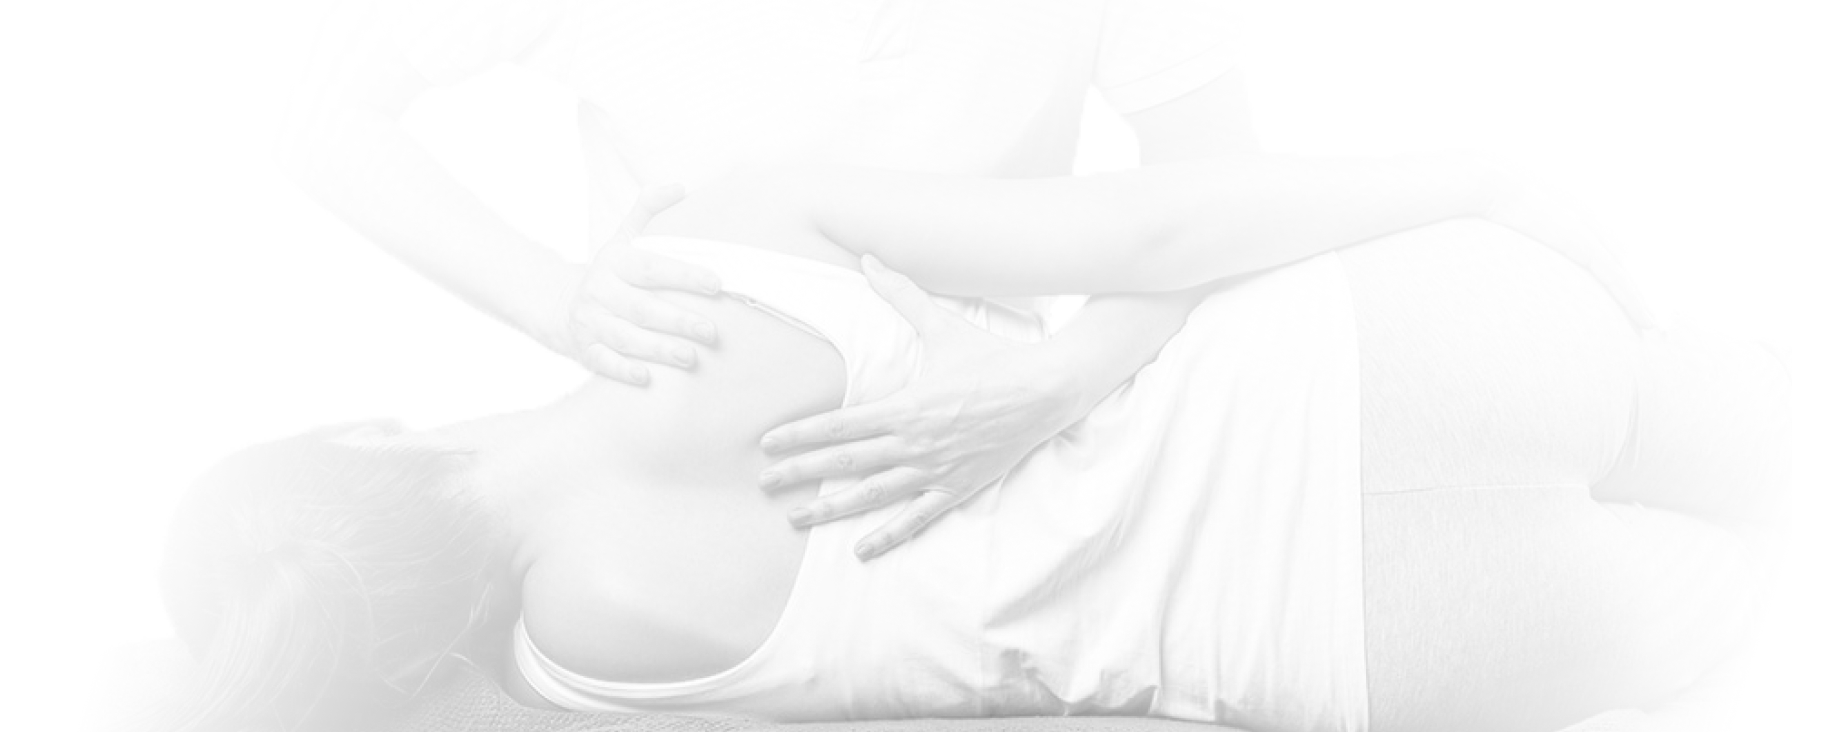
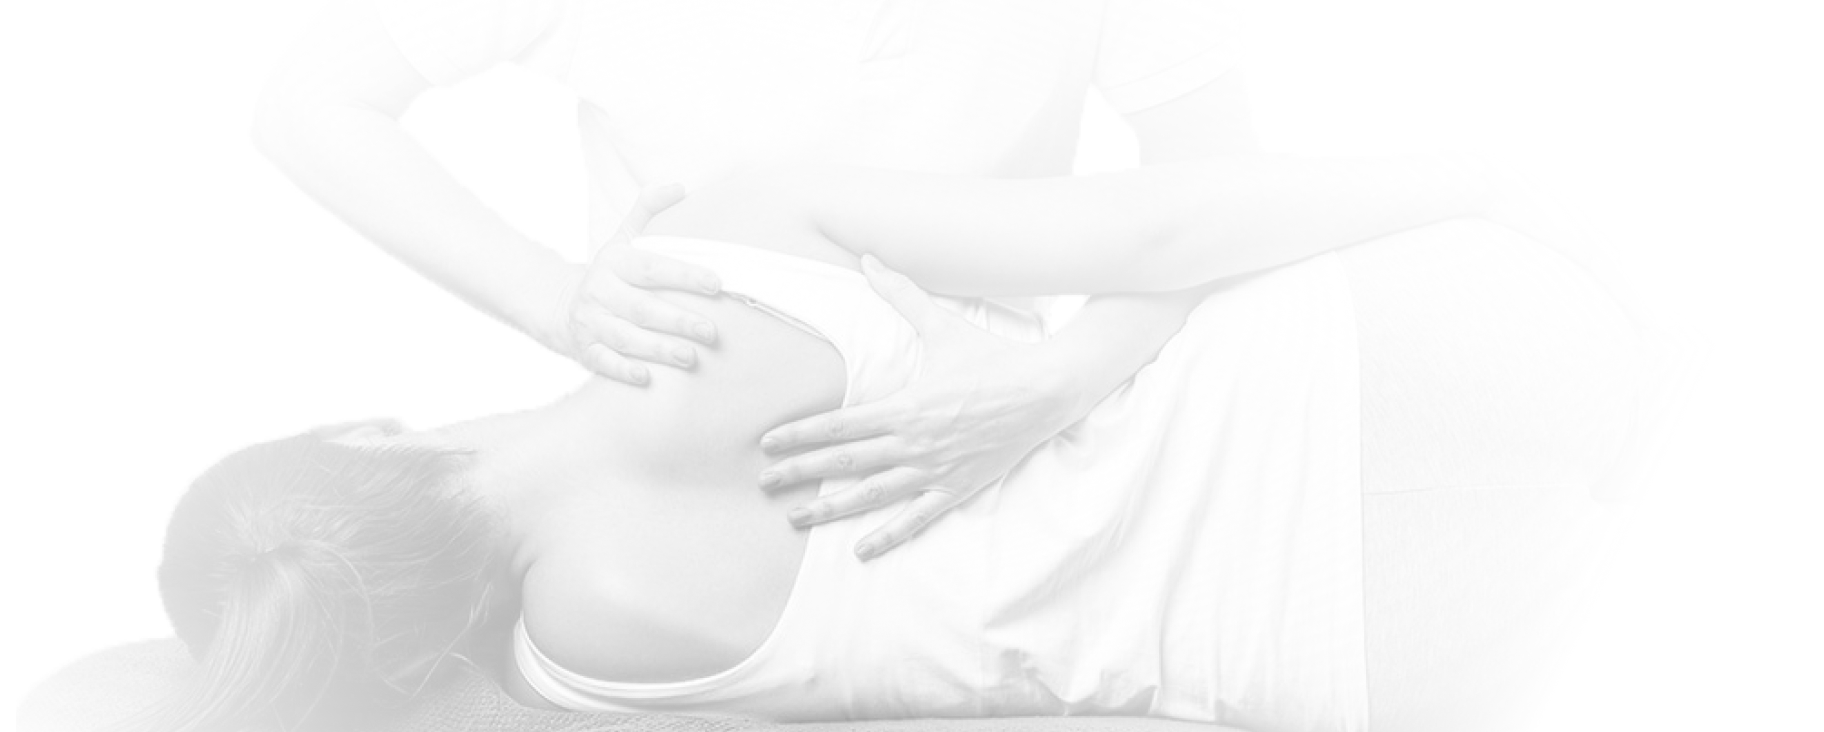
services complete

diff --git a/src/components/Services.js b/src/components/Services.js
@@ -4,6 +4,8 @@ import theme from "../theme"
 import Wrapper from "./Wrapper"
 import { Trafalger } from "../Typography"
 import Card from "./Card"
+import careIcon from "../images/careIcon.svg"
+import carIcon from "../images/carIcon.svg"
 
 const Container = styled.div`
   background: ${theme.colors.parchment};
@@ -22,38 +24,30 @@ const Grid = styled.div`
   }
 `
 
-const cardContent = [
-  {
-    id: 1,
-    iconUrl: "/static/carIcon.svg",
-    content:
-      "I provide mobile physiotherapy in cras justo odio, dapibus ac facilisis in, egestas eget quam. Morbi leo risus, porta ac consectetur ac, vestibulum at eros. Sed posuere consectetur est at lobortis. Praesent commodo cursus magna, vel scelerisque nisl consectetur et.",
-  },
-  {
-    id: 2,
-    iconUrl: "/static/care.svg",
-    content:
-      "I provide home-based physiotherapy for the elderly, delivering comprehensive treatment and education for both patients and their wider family. Cras mattis consectetur purus sit amet fermentum. Donec ullamcorper nulla non metus auctor fringilla. Curabitur blandit tempus porttitor.",
-  },
-  {
-    id: 3,
-    iconUrl: "/static/carIcon.svg",
-    content:
-      "Donec sed odio dui. Cras mattis consectetur purus sit amet fermentum. Duis mollis, est non commodo luctus, nisi erat porttitor ligula, eget lacinia odio sem nec elit.",
-  },
-]
-
 const Services = () => {
-  const cardItem = cardContent.map(data => {
-    return <Card key={data.id} data={data} />
-  })
   return (
     <Container>
       <Wrapper>
         <Trafalger textStyle="trafalger" textAlign="center" mb="56px">
           Services
         </Trafalger>
-        <Grid>{cardItem}</Grid>
+        <Grid>
+          <Card
+            iconUrl={carIcon}
+            header="Mobile Physio"
+            content="I provide mobile physiotherapy, meaning that you can undergo a treatment plan tailored to your needs from the comfort of your own home. Why not get in touch with us and save yourself the stress of travelling."
+          />
+          <Card
+            iconUrl={careIcon}
+            header="Elderly & Children Care"
+            content="I also offer physiotherapy for the elderly in residential and nursing homes along with sheltered accommodations, specialising in both individual physiotherapy and group exercise classes."
+          />
+          <Card
+            iconUrl={careIcon}
+            header="Another Service Here"
+            content="Justo odio, dapibus ac facilisis in, egestas eget quam. Morbi leo risus, porta ac consectetur ac, vestibulum at eros. Sed posuere consectetur est at lobortis. Praesent commodo cursus magna, vel scelerisque nisl consectetur et."
+          />
+        </Grid>
       </Wrapper>
     </Container>
   )

diff --git a/src/components/About.js b/src/components/About.js
@@ -1,0 +1,50 @@
+import React from "react"
+import Wrapper from "./Wrapper"
+import { Trafalger } from "../Typography"
+import aboutImage from "../images/alison-about.jpg"
+import styled from "@emotion/styled"
+import { BodyCopy } from "../Typography"
+
+const Container = styled.div`
+  display: grid;
+  grid-template-columns: 0.74fr 1fr;
+`
+
+const Image = styled.img`
+  width: 290px;
+  height: auto;
+`
+
+const TextContainer = styled.div`
+  width: 60%;
+`
+
+const About = () => {
+  return (
+    <Wrapper>
+      <Container>
+        <Image src={aboutImage} alt="" />
+        <TextContainer>
+          <Trafalger textStyle="trafalger" mt="80px" mb="30px">
+            About me
+          </Trafalger>
+          <BodyCopy textStyle="bodyCopy">
+            Alison Stuart is a Chartered Physiotherapist with over 25 years of
+            experience. She has a wealth of experience and has previously worked
+            for the NHS both in adult and paediatric care, at Stoke Mandeville
+            hospital in their specialist spinal injuries unit as well as other
+            private practices and professional sports teams.
+          </BodyCopy>
+          <BodyCopy textStyle="bodyCopy">
+            Her most diverse experience was a time working for a professional
+            basketball team. "I worked for five years with the Chester Jets. We
+            travelled all over Europe, and I have to say it was great fun and an
+            amazing experience for me."
+          </BodyCopy>
+        </TextContainer>
+      </Container>
+    </Wrapper>
+  )
+}
+
+export default About

diff --git a/src/components/Card.js b/src/components/Card.js
@@ -1,6 +1,7 @@
 import React from "react"
 import styled from "@emotion/styled"
 import { BodyCopy } from "../Typography"
+import { color, textStyle, space, typography } from "styled-system"
 
 const Container = styled.div`
   border-radius: 4px;
@@ -12,15 +13,25 @@ const Container = styled.div`
 `
 
 const Image = styled.img`
-  margin: 16px 0 24px;
+  margin: 16px 0 16px;
 `
 
-const Card = ({ data }) => {
+const SubHeader = styled.h2`
+  ${textStyle}
+  ${space}
+  ${color}
+  ${typography}
+`
+
+const Card = ({ iconUrl, content, header }) => {
   return (
     <Container>
-      <Image src={data.iconUrl} alt="" />
+      <Image src={iconUrl} alt="" />
+      <SubHeader textStyle="subHeader" textAlign="center" mb="12px">
+        {header}
+      </SubHeader>
       <BodyCopy textStyle="bodyCopy" textAlign="center">
-        {data.content}
+        {content}
       </BodyCopy>
     </Container>
   )

diff --git a/src/theme/index.js b/src/theme/index.js
@@ -1,4 +1,5 @@
 const colors = {
+  sienna: "#CD874B",
   calico: "#E3BC9B",
   parchment: "#F5E9DF",
   floralWhite: "#FFFDF6",
@@ -28,12 +29,18 @@ export default {
       fontWeight: 400,
       fontFamily: fontFamilies.heading,
     },
+    subHeader: {
+      color: colors.charcoal,
+      fontFamily: fontFamilies.heading,
+      fontSize: "15px",
+      lineHeight: "22px",
+    },
     bodyCopy: {
       color: colors.charcoal,
       fontSize: "14px",
       fontWeight: 400,
       fontFamily: fontFamilies.body,
-      lineHeight: "180%",
+      lineHeight: "170%",
       marginBottom: "16px",
     },
     navlink: {

diff --git a/src/pages/index.js b/src/pages/index.js
@@ -4,6 +4,7 @@ import Helmet from "react-helmet"
 import Head from "../components/Head"
 import Hero from "../components/Hero"
 import Services from "../components/Services"
+import About from "../components/About"
 
 const IndexPage = () => {
   return (
@@ -17,6 +18,7 @@ const IndexPage = () => {
       <Head title="Home" />
       <Hero />
       <Services />
+      <About />
     </Layout>
   )
 }

diff --git a/src/components/Hero.js b/src/components/Hero.js
@@ -13,7 +13,7 @@ const Container = styled.div`
   background-size: cover;
   background-position: 0px 30px;
   background-repeat: no-repeat;
-  height: 400px;
+  height: 460px;
 
   @media (max-width: 768px) {
     background-position: -145px 0px;
